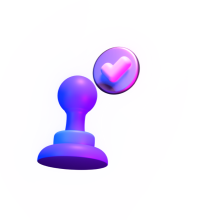
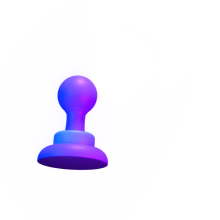
update participate animation

Changed region(s): [[0.4091, 0.1909, 0.6545, 0.4364]]

diff --git a/src/views/Home/component/Participate/index.scss b/src/views/Home/component/Participate/index.scss
@@ -69,9 +69,15 @@
           -moz-animation: circilarFloat 2s linear infinite;
         }
         .seal {
-          animation: sealFloat 2s linear infinite;
-          -webkit-animation: sealFloat 2s linear infinite;
-          -moz-animation: sealFloat 2s linear infinite;
+          animation: sealFloat 2s ease infinite;
+          -webkit-animation: sealFloat 2s ease infinite;
+          -moz-animation: sealFloat 2s ease infinite;
+        }
+        .imprint {
+          animation: imprintFloat 2s ease infinite;
+          -webkit-animation: imprintFloat 2s ease infinite;
+          -moz-animation: imprintFloat 2s ease infinite;
+          animation-delay: 4s;
         }
         @keyframes starFloat {
           0% {
@@ -145,14 +151,21 @@
         }
         @keyframes sealFloat {
           0% {
-            transform: translateX(0) translateZ(0) scale(1);
-          }
-
-          50% {
-            transform: translateX(6px) translateZ(6px) scale(0.8);
+            transform: translateY(0);
           }
 
           100% {
+            transform: translateY(-20px);
+          }
+        }
+        @keyframes imprintFloat {
+          0% {
+            opacity: 0;
+            transform: translateX(20px) translateZ(20px) scale(1.5);
+          }
+
+          100% {
+            opacity: 1;
             transform: translateX(0px) translateZ(0px) scale(1);
           }
         }
@@ -160,10 +173,12 @@
       .item-img-wrap:hover {
         .pen,
         .coloredStars,
+        .goldCoins,
         .bullion,
         .phone,
         .circilar,
-        .seal {
+        .seal,
+        .imprint {
           animation-play-state: paused;
         }
       }

diff --git a/src/component/Header/index.scss b/src/component/Header/index.scss
@@ -4,8 +4,12 @@
 }
 .left-nav {
   text-align: left;
-  img {
+  .logo-wrap {
+    margin-top: 10px;
     height: 40px;
+    background-image: url(../../assets/img/logo.png);
+    background-size: contain;
+    background-repeat: no-repeat;
   }
 }
 
@@ -26,11 +30,23 @@
 }
 @media (max-width: 991px) {
   .ant-layout-header {
-    padding: 0 10px !important;
+    padding: 0 20px !important;
     font-size: 12px;
+  }
+  .left-nav {
+    .logo-wrap {
+      margin-top: 16px;
+      height: 28px;
+      background-image: url(../../assets/img/logo-mobile.png);
+      background-size: contain;
+      background-repeat: no-repeat;
+    }
   }
   .right-nav {
     text-align: right;
+    a {
+      margin-right: 30px;
+    }
     span {
       margin-right: 10px !important;
     }

diff --git a/src/views/Home/component/Participate/index.js b/src/views/Home/component/Participate/index.js
@@ -10,6 +10,7 @@ import pen from '@/assets/img/pen.png'
 import phone from '@/assets/img/phone.png'
 import circilar from '@/assets/img/circular.png'
 import seal from '@/assets/img/seal.png'
+import imprint from '@/assets/img/imprint.png'
 import coloredStars from '@/assets/img/colored-stars.png'
 import goldCoins from '@/assets/img/gold-coins.png'
 
@@ -82,6 +83,7 @@ const Participate = () => {
           <div className='item-img-wrap'>
             <img src={participate3} className="background-img"/>
             <img src={seal} className="seal"/>
+            <img src={imprint} className="imprint"/>
           </div>
         </CSSTransition>
         <CSSTransition

diff --git a/src/component/Header/index.js b/src/component/Header/index.js
@@ -1,4 +1,3 @@
-import logo from '@/assets/img/logo.png'
 import language from '@/assets/img/language.png'
 import './index.scss'
 import { Col, Row, Dropdown } from 'antd';
@@ -10,7 +9,7 @@ export const Header = () => {
   return <div className="header-wrap">
     <Row>
         <Col span={12} className="left-nav">
-          <img src={logo} />
+          <div class="logo-wrap"></div>
         </Col>
         <Col span={12} className="right-nav">
           <a>{t('header.Document')}</a>

diff --git a/src/views/Home/component/FirstScreen/index.scss b/src/views/Home/component/FirstScreen/index.scss
@@ -55,10 +55,12 @@
       position: absolute;
       bottom: 0px;
       left: 0px;
+      object-fit: cover;
     }
     .brightCity {
       width: 100%;
       height: 100%;
+      object-fit: cover;
       animation: flashLight 3s infinite;
     }
   }
